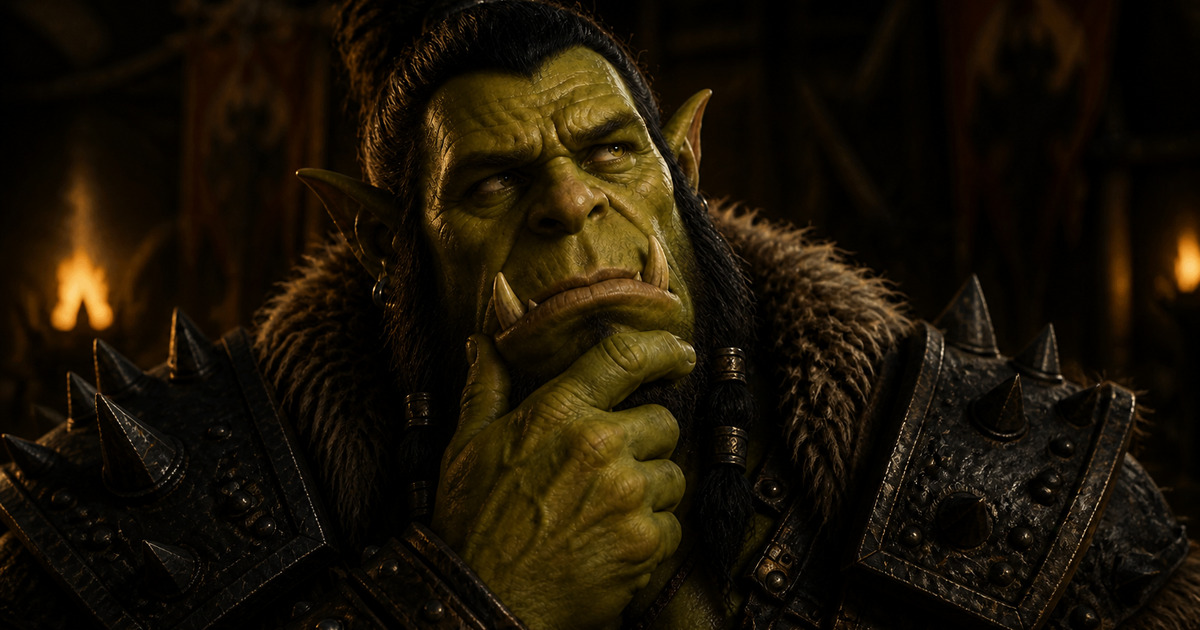
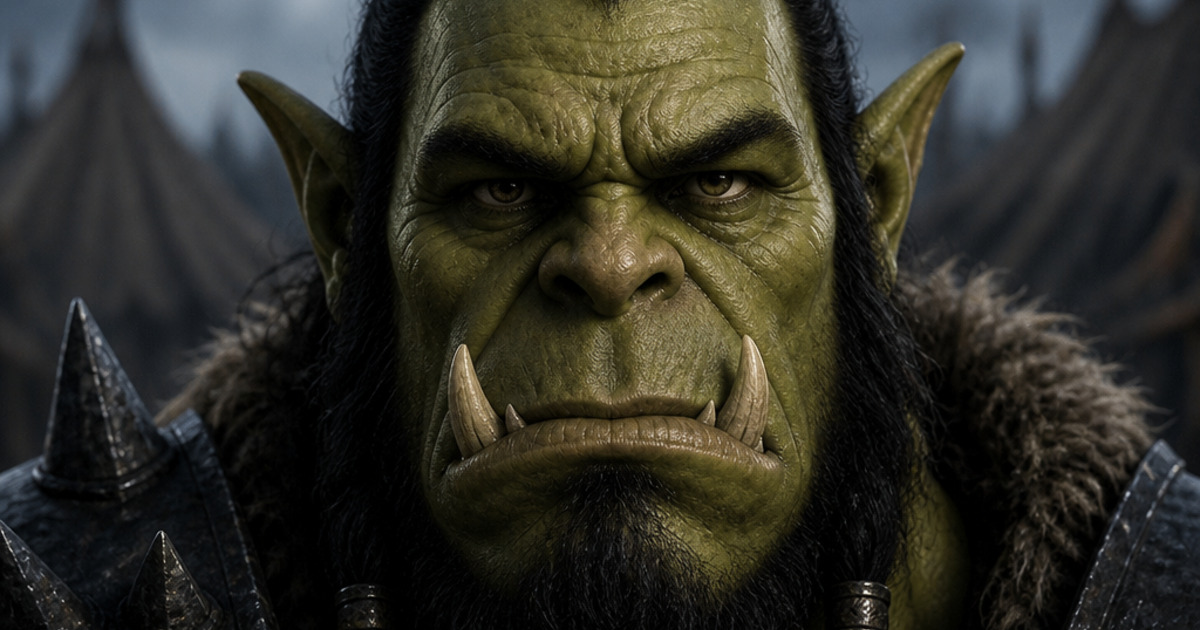
Reshoot Thinking so it starts as a deadpan stare.
The old chin-on-hand pose was too close to Doubt.

diff --git a/scripts/imagine-video.ts b/scripts/imagine-video.ts
@@ -57,7 +57,7 @@ const PROMPTS: Record<string, string> = {
   thankyou:
     "The orc gives a grateful nod and a warm smile, a slight bow of thanks. Locked camera.",
   thinking:
-    "The orc thinks, eyes drifting up, a slow hmm, thumb stroking his chin. Locked camera.",
+    "He starts staring at the camera deadpan, unamused, like 'seriously now'. Then he looks up and aside, raises one finger to his temple, and thinks. Locked camera.",
   toldyou:
     "The orc smirks I-told-you-so, a smug little nod and knowing glance. Locked camera.",
   victory:
